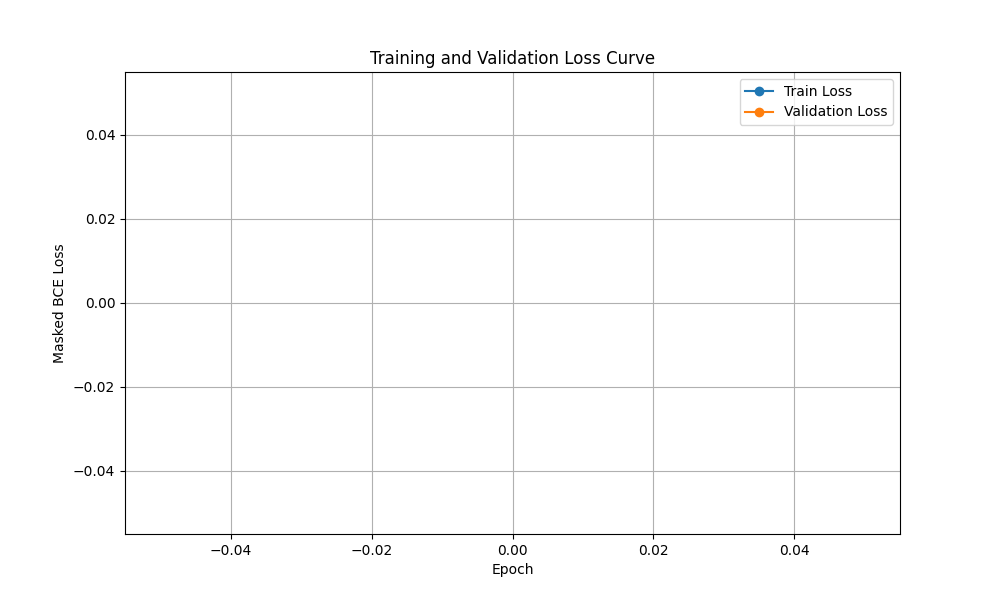
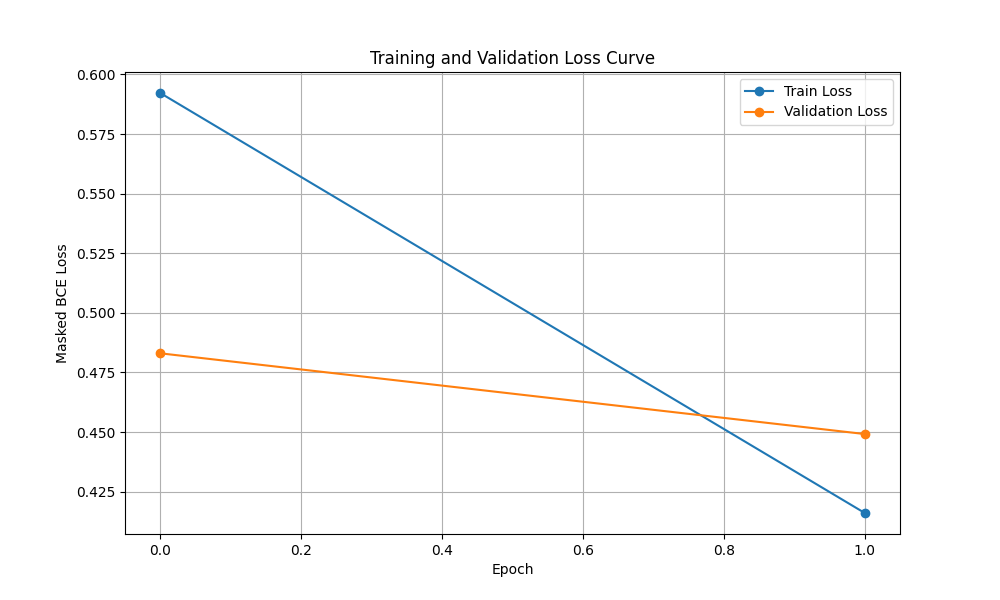
aahh

diff --git a/src/training.py b/src/training.py
@@ -8,7 +8,7 @@ import time
 
 # From https://medium.com/biased-algorithms/a-practical-guide-to-implementing-early-stopping-in-pytorch-for-model-training-99a7cbd46e9d
 class EarlyStopping:
-    def __init__(self, patience=5, delta=0.001, verbose=False):
+    def __init__(self, patience=50, delta=0.001, verbose=False):
         self.patience = patience
         self.delta = delta
         self.verbose = verbose
@@ -175,8 +175,10 @@ class ImitationTrainer:
             'val_loss': []
         }
 
-    def plot_losses(self, save_path="loss_curve.png"):
+    def plot_losses(self, save_path=None):
         """Plots and saves the training and validation loss curves."""
+        if save_path is None:
+            save_path = os.path.join(self.out_dir, "loss_curve.png")
         plt.figure(figsize=(10, 6))
         plt.plot(self.history['train_loss'], label='Train Loss', marker='o')
         plt.plot(self.history['val_loss'], label='Validation Loss', marker='o')